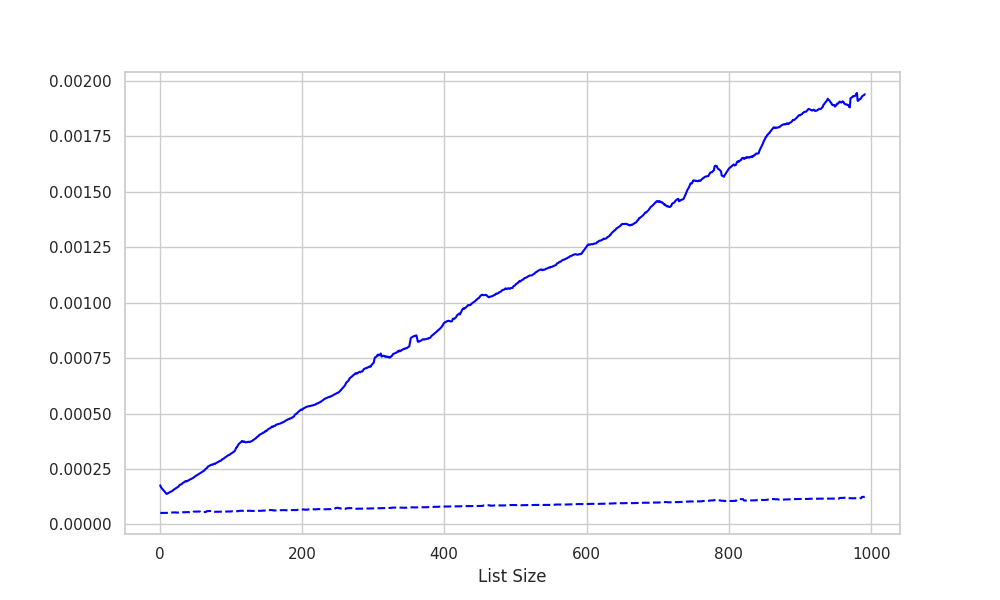
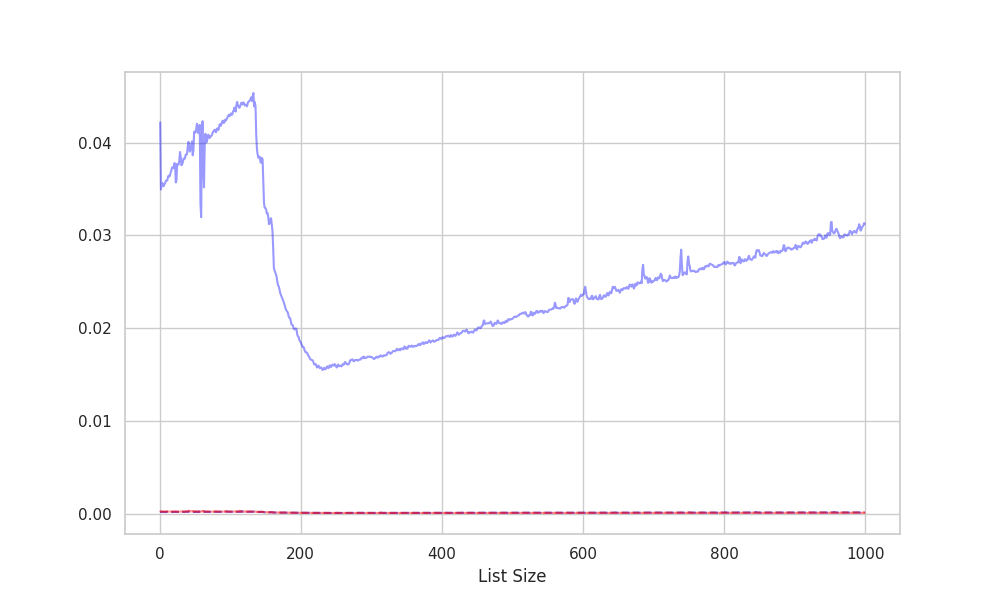
lab_4: added arrays

diff --git a/lab_4_rewritten/program.py b/lab_4_rewritten/program.py
@@ -1,0 +1,152 @@
+import tkinter as tk
+from tkinter import filedialog
+import random
+from main import SingleLinkedList
+
+class MainWindow(tk.Tk):
+    def __init__(self):
+        super().__init__()
+        self.title("Student Queue")
+        self.linked_list1 = []
+        self.linked_list2 = []
+        self.current_student1 = None
+        self.current_student2 = None
+        self.setup_ui()
+
+    def setup_ui(self):
+        main_frame = tk.Frame(self)
+
+        # input from file
+        file_input_frame = tk.Frame(main_frame)
+        file_input_label = tk.Label(file_input_frame, text="Load students from file:")
+        self.file_input_button = tk.Button(file_input_frame, text="Browse", command=self.load_students)
+        file_input_label.pack(side=tk.LEFT)
+        self.file_input_button.pack(side=tk.LEFT)
+        file_input_frame.pack()
+
+        # student first list
+        student_info_frame1 = tk.Frame(main_frame)
+        student_name_label1 = tk.Label(student_info_frame1, text="Student Name (List 1):")
+        self.student_name_text1 = tk.Label(student_info_frame1, text="")
+        student_score_label1 = tk.Label(student_info_frame1, text="Student Score:")
+        self.student_score_text1 = tk.Label(student_info_frame1, text="")
+        student_name_label1.pack(side=tk.LEFT)
+        self.student_name_text1.pack(side=tk.LEFT)
+        student_score_label1.pack(side=tk.LEFT)
+        self.student_score_text1.pack(side=tk.LEFT)
+        student_info_frame1.pack()
+
+        # students second list
+        buttons_frame1 = tk.Frame(main_frame)
+        self.pass_button1 = tk.Button(buttons_frame1, text="Pass", command=lambda: self.process_student(self.linked_list1, True))
+        self.fail_button1 = tk.Button(buttons_frame1, text="Fail", command=lambda: self.process_student(self.linked_list1, False))
+        self.pass_button1.pack(side=tk.LEFT)
+        self.fail_button1.pack(side=tk.LEFT)
+        buttons_frame1.pack()
+
+        student_info_frame2 = tk.Frame(main_frame)
+        student_name_label2 = tk.Label(student_info_frame2, text="Student Name (List 2):")
+        self.student_name_text2 = tk.Label(student_info_frame2, text="")
+        student_score_label2 = tk.Label(student_info_frame2, text="Student Score:")
+        self.student_score_text2 = tk.Label(student_info_frame2, text="")
+        student_name_label2.pack(side=tk.LEFT)
+        self.student_name_text2.pack(side=tk.LEFT)
+        student_score_label2.pack(side=tk.LEFT)
+        self.student_score_text2.pack(side=tk.LEFT)
+        student_info_frame2.pack()
+
+        buttons_frame2 = tk.Frame(main_frame)
+        self.pass_button2 = tk.Button(buttons_frame2, text="Pass", command=lambda: self.process_student(self.linked_list2, True))
+        self.fail_button2 = tk.Button(buttons_frame2, text="Fail", command=lambda: self.process_student(self.linked_list2, False))
+        self.pass_button2.pack(side=tk.LEFT)
+        self.fail_button2.pack(side=tk.LEFT)
+        buttons_frame2.pack()
+
+        report_lists_frame = tk.Frame(main_frame)
+        report_list_label = tk.Label(report_lists_frame, text="Report Lists:")
+        self.report_list1 = tk.Listbox(report_lists_frame)
+        self.score_list1 = tk.Listbox(report_lists_frame)
+        self.result_list1 = tk.Listbox(report_lists_frame)
+        self.report_list2 = tk.Listbox(report_lists_frame)
+        self.score_list2 = tk.Listbox(report_lists_frame)
+        self.result_list2 = tk.Listbox(report_lists_frame)
+        report_list_label.pack(side=tk.LEFT)
+        self.report_list1.pack(side=tk.LEFT)
+        self.score_list1.pack(side=tk.LEFT)
+        self.result_list1.pack(side=tk.LEFT)
+        self.report_list2.pack(side=tk.LEFT)
+        self.score_list2.pack(side=tk.LEFT)
+        self.result_list2.pack(side=tk.LEFT)
+        report_lists_frame.pack()
+
+        main_frame.pack()
+
+    def load_students(self):
+        file_name = filedialog.askopenfilename(title="Open File", filetypes=[("Text Files", "*.txt")])
+        if file_name:
+            try:
+                with open(file_name, 'r') as file:
+                    lines = file.readlines()
+                    num_students = len(lines)
+                    for i in range(num_students):
+                        self.linked_list1.append(lines[i].strip())
+                    for i in range(num_students):
+                        self.linked_list2.append(lines[i].strip())
+                self.update_student_info(self.linked_list1)
+                self.update_student_info(self.linked_list2)
+            except (IOError, OSError) as e:
+                print(f"Error opening file: {e}")
+
+    def update_student_info(self, linked_list):
+        if not linked_list:
+            if linked_list == self.linked_list1:
+                self.student_name_text1.config(text="")
+                self.student_score_text1.config(text="")
+                self.pass_button1.config(state=tk.DISABLED)
+                self.fail_button1.config(state=tk.DISABLED)
+            else:
+                self.student_name_text2.config(text="")
+                self.student_score_text2.config(text="")
+                self.pass_button2.config(state=tk.DISABLED)
+                self.fail_button2.config(state=tk.DISABLED)
+        else:
+            current_student = linked_list.pop(0)
+            random_score = random.randint(1, 100)
+            if linked_list == self.linked_list1:
+                self.student_name_text1.config(text=current_student)
+                self.student_score_text1.config(text=str(random_score))
+                self.pass_button1.config(state=tk.NORMAL)
+                self.fail_button1.config(state=tk.NORMAL)
+            else:
+                self.student_name_text2.config(text=current_student)
+                self.student_score_text2.config(text=str(random_score))
+                self.pass_button2.config(state=tk.NORMAL)
+                self.fail_button2.config(state=tk.NORMAL)
+
+    def process_student(self, linked_list, passed):
+        if not linked_list:
+            self.update_student_info(linked_list)
+            return
+
+        student_name = self.student_name_text1.cget("text") if linked_list == self.linked_list1 else self.student_name_text2.cget("text")
+        student_score = self.student_score_text1.cget("text") if linked_list == self.linked_list1 else self.student_score_text2.cget("text")
+        if linked_list == self.linked_list1:
+            self.report_list1.insert(tk.END, student_name)
+            self.score_list1.insert(tk.END, student_score)
+            if passed:
+                self.result_list1.insert(tk.END, "Passed")
+            else:
+                self.result_list1.insert(tk.END, "Failed")
+        else:
+            self.report_list2.insert(tk.END, student_name)
+            self.score_list2.insert(tk.END, student_score)
+            if passed:
+                self.result_list2.insert(tk.END, "Passed")
+            else:
+                self.result_list2.insert(tk.END, "Failed")
+
+        self.update_student_info(linked_list)
+
+if __name__ == "__main__":
+    app = MainWindow()
+    app.mainloop()

diff --git a/lab_4_rewritten/benchmark.py b/lab_4_rewritten/benchmark.py
@@ -1,6 +1,6 @@
 
 import matplotlib.pyplot as plt
-from main import SingleLinkedList
+from main import SingleLinkedList, SingleLinkedListArray
 import timeit
 from tqdm import tqdm
 import seaborn as sns
@@ -11,41 +11,64 @@ def moving_average(data, window_size):
     weights = np.repeat(1.0, window_size) / window_size
     return np.convolve(data, weights, 'valid')
 
-def benchmark_linked_list(max_size, smoothing_window=10):
-    append_times = []
-    remove_head_times = []
+def benchmark_linked_list(max_size, smoothing_window=2):
+    append_times_linked_list = []
+    remove_head_times_linked_list = []
+    append_times_array = []
+    remove_head_times_array = []
     sizes = []
 
     for size in tqdm(range(1, max_size + 1)):
         linked_list = SingleLinkedList()
-        for _ in range(size):
-            linked_list.append(None)
+        array_list = SingleLinkedListArray()
 
-        setup_code = """
+        # Benchmark for SingleLinkedList
+        setup_code_linked_list = """
 from main import SingleLinkedList
 linked_list = SingleLinkedList()
 for _ in range({}):
     linked_list.append(None)
 """.format(size)
 
-        append_stmt = "linked_list.append(None)"
-        append_time = timeit.timeit(stmt=append_stmt, setup=setup_code, number=100)
-        append_times.append(append_time)
+        append_stmt_linked_list = "linked_list.append(None)"
+        append_time_linked_list = timeit.timeit(stmt=append_stmt_linked_list, setup=setup_code_linked_list, number=1000)
+        append_times_linked_list.append(append_time_linked_list)
 
-        remove_head_stmt = "linked_list.remove_head()"
-        remove_head_time = timeit.timeit(stmt=remove_head_stmt, setup=setup_code, number=1000)
-        remove_head_times.append(remove_head_time)
+        remove_head_stmt_linked_list = "linked_list.remove_head()"
+        remove_head_time_linked_list = timeit.timeit(stmt=remove_head_stmt_linked_list, setup=setup_code_linked_list, number=1000)
+        remove_head_times_linked_list.append(remove_head_time_linked_list)
+
+        # Benchmark for SingleLinkedListArray
+        setup_code_array = """
+from main import SingleLinkedListArray
+array_list = SingleLinkedListArray()
+for _ in range({}):
+    array_list.append(None)
+""".format(size)
+
+        append_stmt_array = "array_list.append(None)"
+        append_time_array = timeit.timeit(stmt=append_stmt_array, setup=setup_code_array, number=1000)
+        append_times_array.append(append_time_array)
+
+        remove_head_stmt_array = "array_list.remove_head()"
+        remove_head_time_array = timeit.timeit(stmt=remove_head_stmt_array, setup=setup_code_array, number=1000)
+        remove_head_times_array.append(remove_head_time_array)
 
         sizes.append(size)
 
-    append_times_smoothed = moving_average(append_times, smoothing_window)
-    remove_head_times_smoothed = moving_average(remove_head_times, smoothing_window)
+    append_times_linked_list_smoothed = moving_average(append_times_linked_list, smoothing_window)
+    remove_head_times_linked_list_smoothed = moving_average(remove_head_times_linked_list, smoothing_window)
+    append_times_array_smoothed = moving_average(append_times_array, smoothing_window)
+    remove_head_times_array_smoothed = moving_average(remove_head_times_array, smoothing_window)
 
     sns.set(style="whitegrid")
     plt.figure(figsize=(10, 6))
     
-    plt.plot(sizes[:-smoothing_window+1], append_times_smoothed, label="append (Smoothed)", color='blue')
-    plt.plot(sizes[:-smoothing_window+1], remove_head_times_smoothed, label="remove_head (Smoothed)", color='blue', linestyle='--')
+    plt.plot(sizes[:-smoothing_window+1], append_times_linked_list_smoothed, label="append (Linked List)", color='blue', alpha=0.4)
+    plt.plot(sizes[:-smoothing_window+1], remove_head_times_linked_list_smoothed, label="remove_head (Linked List)", color='blue', linestyle='--', alpha=0.6)
+
+    plt.plot(sizes[:-smoothing_window+1], append_times_array_smoothed, label="append (Array)", color='red', alpha=0.4)
+    plt.plot(sizes[:-smoothing_window+1], remove_head_times_array_smoothed, label="remove_head (Array)", color='red', linestyle='--', alpha=0.4)
 
     plt.xlabel("List Size")
     if not os.path.exists("outputs"):

diff --git a/lab_4_rewritten/main.py b/lab_4_rewritten/main.py
@@ -28,6 +28,20 @@ class SingleLinkedList:
         self.head = self.head.next
         return removed_data
 
+class SingleLinkedListArray:
+    def __init__(self):
+        self.array = []
+
+    def append(self, data):
+        self.array.append(data)
+
+    def remove_head(self):
+        if len(self.array) == 0:
+            return None
+        removed_data = self.array[0]
+        del self.array[0]
+        return removed_data
+
 
 class MainWindow(QMainWindow):
     def __init__(self):
